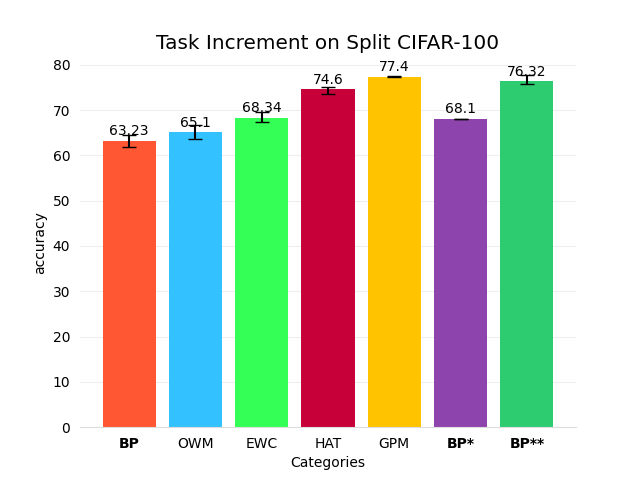
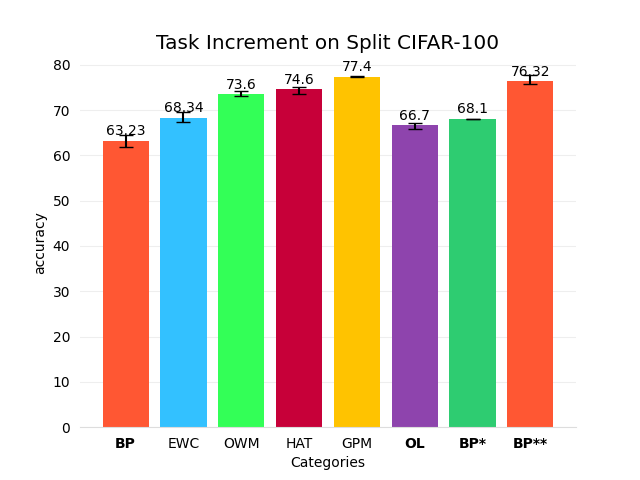
update

diff --git a/site/Resnet & Batch Norms/index.html b/site/Resnet & Batch Norms/index.html
@@ -535,17 +535,9 @@
 </blockquote>
 <h2 id="possible-advantages-of-batch-normalization-bn"><strong>Possible Advantages of Batch Normalization (BN)</strong></h2>
 <h3 id="improving-numerical-stability"><strong>Improving Numerical Stability</strong></h3>
-<p>Suppose we have a 1-layer linear neural network for a regression problem. The output <script type="math/tex">o</script> and the Mean Squared Error (MSE) loss <script type="math/tex">\mathcal{L}_{MSE}</script> are:</p>
-<p>
-<script type="math/tex; mode=display">o = \sigma(w \cdot x)</script>
-<br />
-<script type="math/tex; mode=display">\mathcal{L}_{MSE} = \frac{1}{2}(o - y)^2</script>
-</p>
-<p>Through backpropagation, the gradient <script type="math/tex">\nabla \mathcal{L}_{w}</script> is:</p>
-<p>
-<script type="math/tex; mode=display">\nabla \mathcal{L}_{w} = (o - y) \cdot \frac{\partial o}{\partial (w)} = o \cdot x \cdot \sigma'</script>
-</p>
-<p>If the network has <script type="math/tex">N</script> layers, then the gradient of the first layer would be <script type="math/tex">o \cdot \prod_{i=1}^{N} \frac{\partial o}{\partial (w)}</script>, and the product of this sequence would tend to 0 or infinity. This is <strong>numerical instability</strong>.</p>
+<p>Consider a <strong>1-layer linear neural network</strong> for a regression problem. The output <script type="math/tex"> o </script> and the <strong>Mean Squared Error (MSE) loss</strong> are defined as: <script type="math/tex; mode=display"> o = \sigma(WX) </script>
+<script type="math/tex; mode=display"> \mathcal{L}_{MSE} = \frac{1}{2} \| o - Y \|^2 </script> where: - <script type="math/tex"> W \in \mathbb{R}^{m \times n} </script> is the weight matrix, - <script type="math/tex"> X \in \mathbb{R}^{n \times 1} </script> is the input vector, - <script type="math/tex"> Y \in \mathbb{R}^{m \times 1} </script> is the target output, - <script type="math/tex"> \sigma(\cdot) </script> is an activation function. The gradient of the loss with respect to the weights is computed using <strong>backpropagation</strong>: <script type="math/tex; mode=display"> \nabla_W \mathcal{L} = \frac{\partial \mathcal{L}}{\partial W} = (o - Y) \odot \sigma'(WX) X^T </script> where:  <script type="math/tex"> \odot </script> denotes element-wise multiplication, <script type="math/tex"> \sigma'(WX) </script> is the derivative of the activation function.</p>
+<p>If the network has <script type="math/tex">N</script> layers, then the gradient of the first layer would be <script type="math/tex; mode=display"> \nabla_{W^{(1)}} \mathcal{L} = (o - Y) \cdot \prod_{i=1}^{N} \frac{\partial o^{(i)}}{\partial W^{(i)}} </script>, and the product of this sequence would tend to 0 or infinity. This is <strong>numerical instability</strong>.</p>
 <p>With BN, we can restrict <script type="math/tex">x</script> to any Gaussian distribution, thus mitigating the instability of <script type="math/tex">x</script> and <script type="math/tex">\sigma'</script>.</p>
 <h3 id="perhaps-not-alleviating-internal-covariate-shift-1"><strong>(Perhaps Not) Alleviating Internal Covariate Shift</strong> [1]</h3>
 <p>In the original paper on Batch Normalization, they defined Internal Covariate Shift (ICS).</p>
@@ -556,8 +548,8 @@
 <p>
 <script type="math/tex; mode=display">Y = \mathcal{F}\{X\}</script>
 </p>
-<p>where <script type="math/tex">\mathcal{F}</script> is the mapping function between input <script type="math/tex">X</script> and output <script type="math/tex">Y</script>. Essentially, layers are learning this map between input patterns and output patterns. However, due to ICS, the input pattern could constantly change, which might disrupt the learned mapping function. Therefore, ICS is believed to have a detrimental effect on the training process.</p>
-<p>However, I propose an alternative understanding of ICS. In traditional machine learning, we assume that data are <strong>IID</strong> (i.e., independently and identically distributed). This is the foundation of machine learning and the prerequisite of <strong>MLE</strong> (i.e., Maximum Likelihood Estimation), which is the original form of all loss functions. By using BN, we can ensure the second <strong>I</strong> in <strong>IID</strong>, which is identically distributed. This could lead to better generalization performance for the network.</p>
+<p>where <script type="math/tex">\mathcal{F}</script> is the mapping function between input <script type="math/tex">X</script> and output <script type="math/tex">Y</script>. Essentially, layers are learning this map between input patterns and output patterns. However, due to ICS, the input pattern could constantly change, which might disrupt the learned mapping function. As a result, the gradient (which is related to the input) is also affected by the change of distribution in the input. Therefore, ICS is believed to have a detrimental effect on the training process.</p>
+<p>However, I propose an alternative understanding of ICS. In traditional machine learning, we assume that data are <strong>IID</strong> (i.e., independently and identically distributed). This is the foundation of machine learning and the prerequisite of <strong>MLE</strong> (i.e., Maximum Likelihood Estimation), which is the original form of all loss functions. By using BN, we can ensure that the data is identically distributed. This could lead to better generalization performance for the network.</p>
 <p><em>Other researchers, however, have shown that ICS does not affect performance and that BN does not reduce ICS.</em> They prefer to explain BN’s effectiveness differently.</p>
 <h3 id="smoother-loss-landscape-2"><strong>Smoother Loss Landscape</strong> [2]</h3>
 <p>These researchers demonstrated that BN contributes to a smoother loss landscape, which can be visualized:</p>

diff --git a/docs/Feature_Learning.md b/docs/Feature_Learning.md
@@ -64,13 +64,19 @@ However, the techniques I’ve presented above do not consider data distillation
 
 **BP\*\* refers to freezing the feature extractor, which consists of the parameters before the classifier.**
 
+**OL: a bottom to top training method using unsupervised orthogonal loss** 
+
+>  **Orthogonal loss**: Given an output matrix of each layer \( Y \), the orthogonality loss is defined as: \[ \mathcal{L}_{\text{ortho}} = \left\| \mathcal{N}(Y) - I \right\|^2_F \] where:  \( \mathcal{N}(Y) \) represents the **normalized kernel** of \( Y \), computed as:   \[  \mathcal{N}(Y) = \frac{Y}{\|Y\|_2} \cdot \left(\frac{Y}{\|Y\|_2}\right)^T  \]  \( I \) is the identity matrix.  \( \|\cdot\|_F \) denotes the **Frobenius norm**, which measures the difference between the normalized covariance and the identity matrix.
+
 Are these results surprising? They have been tested across five different seeds, which should be sufficient to draw meaningful conclusions. While BP is highly unstable in continual learning (and in some cases, it may completely forget previous tasks—naturally, I did not include those seeds in the baseline), some of its transformations reach remarkably high accuracy.
 
-Why does BP\*\* achieve such outstanding performance? The reason is straightforward: at its core, BP\*\* is not true continual learning. For each task, only a single fully connected (fc) layer is trained, while the previous parameters remain frozen. But let’s consider it from the perspective of feature learning. Similar to the case of the UESTC dataset, the training of task 1 acts as a pretraining phase, while subsequent tasks function as downstream tasks. Pretraining on task 1 helps the model learn effective feature extraction, which in turn benefits the training of the fc layer in later tasks.
+**Why does BP\*\* achieve such outstanding performance?** The reason is straightforward: at its core, BP\*\* is not true continual learning. For each task, only a single fully connected (fc) layer is trained, while the previous parameters remain frozen. But let’s consider it from the perspective of feature learning. Similar to the case of the UESTC dataset, the training of task 1 acts as a pretraining phase, while subsequent tasks function as downstream tasks. Pretraining on task 1 helps the model learn effective feature extraction, which in turn benefits the training of the fc layer in later tasks.
 
 📌: This is why I argue that achieving short-term continual learning carries little significance—BP already performs quite well in this regard, sometimes even surpassing advanced techniques like HAT.
 
-However, this only holds for task-incremental learning. When applied to class-incremental learning, BP completely fails because the classifier becomes the limiting factor. Still, the underlying principle of feature learning remains unchanged.
+**Why does OL achieve a satisfactory accuracy with no supervise signal and a weird looking loss?** The reason is, Orthogonal loss is actually *feature learning*. Let us revisit orthogonal loss, what is it? Essentially, OL encourages the model to **increase the rank of the output features**, meaning it maximizes the amount of information retained in the learned representations. The higher the rank, the richer the feature set. So, instead of letting the model learn to extract feature by itself, I tell it what to do: simply just extract much information as possible, and leave the remaining task to classifier! Pretty much similar to things like PCA huh? a downsampling technique designed to **preserve as much information as possible while reducing dimensionality**. (I am proud of my instinct, I think this weird loss could work before I implemented this)
+
+However, this only holds for task-incremental learning. When applied to class-incremental learning, BP and OL completely fails because the classifier becomes the limiting factor. Still, the underlying principle of feature learning remains unchanged.
 
 Even in datasets like permuted-MNIST, where the data is randomly permuted and lacks generalizable features, BP\*\* still achieves outstanding accuracy. The feature extractor adapts by increasing the rank of the feature matrix, thereby expanding the parameter space and retaining more useful information.
 
